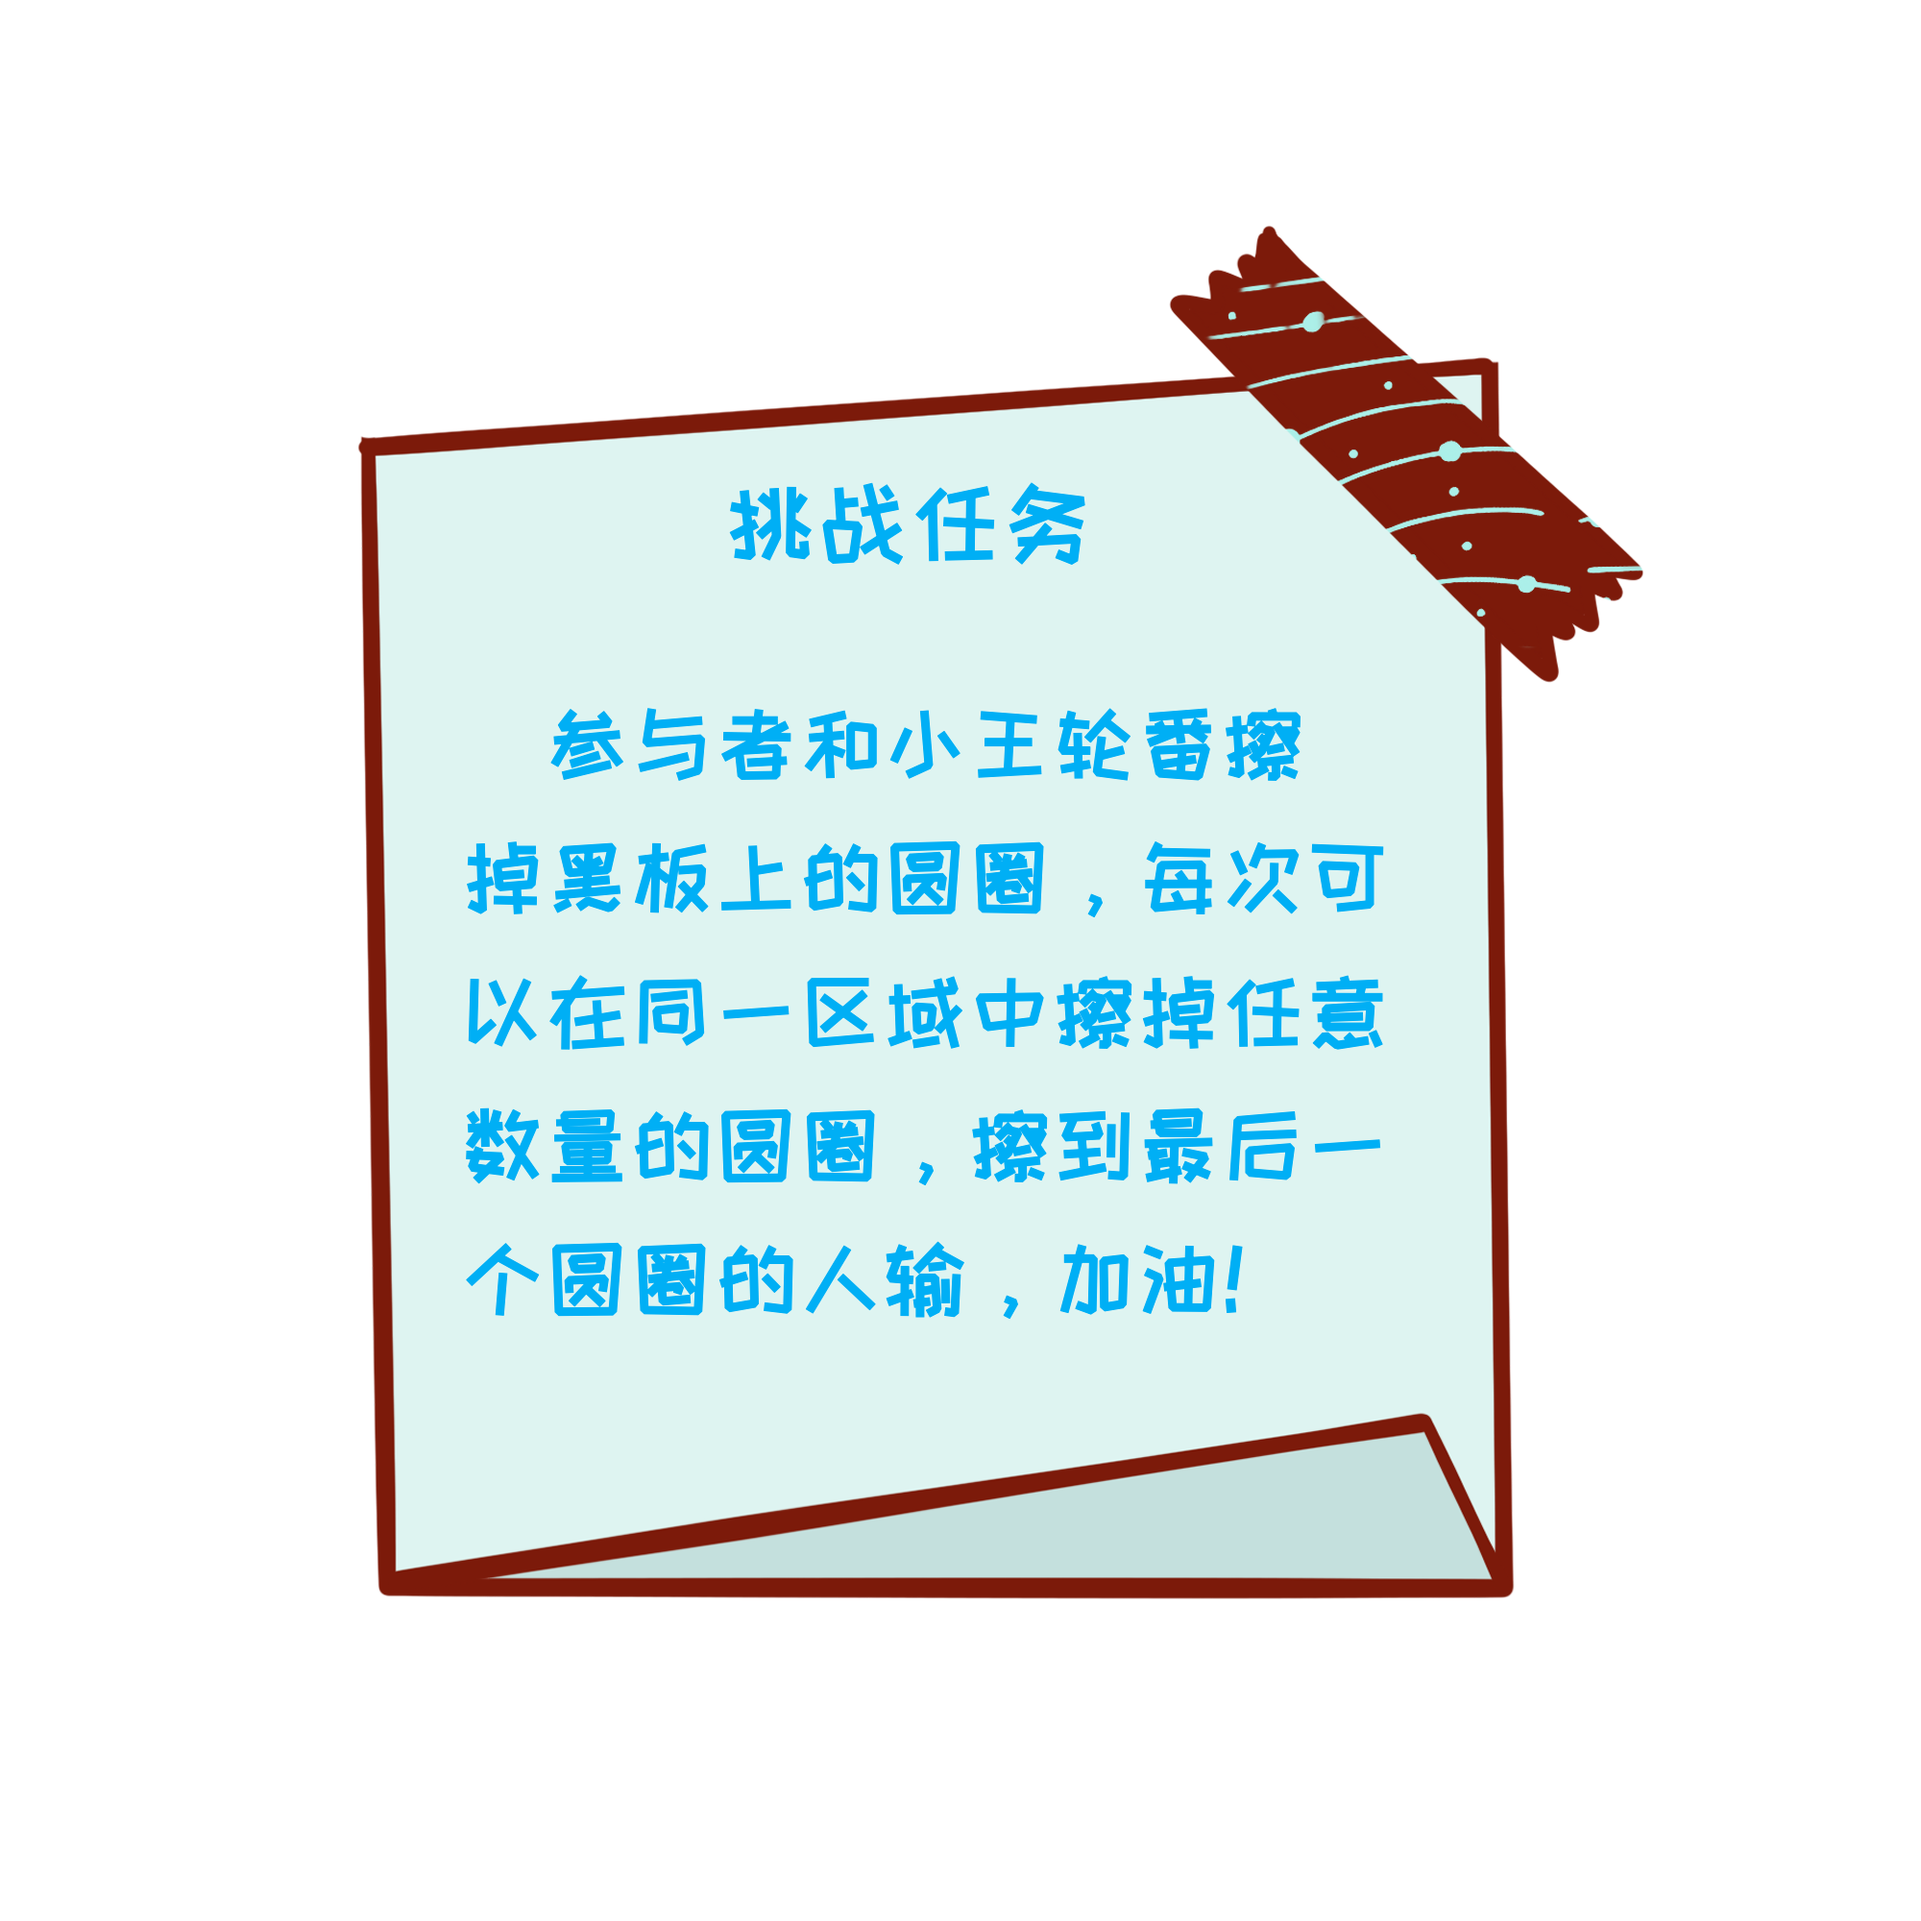
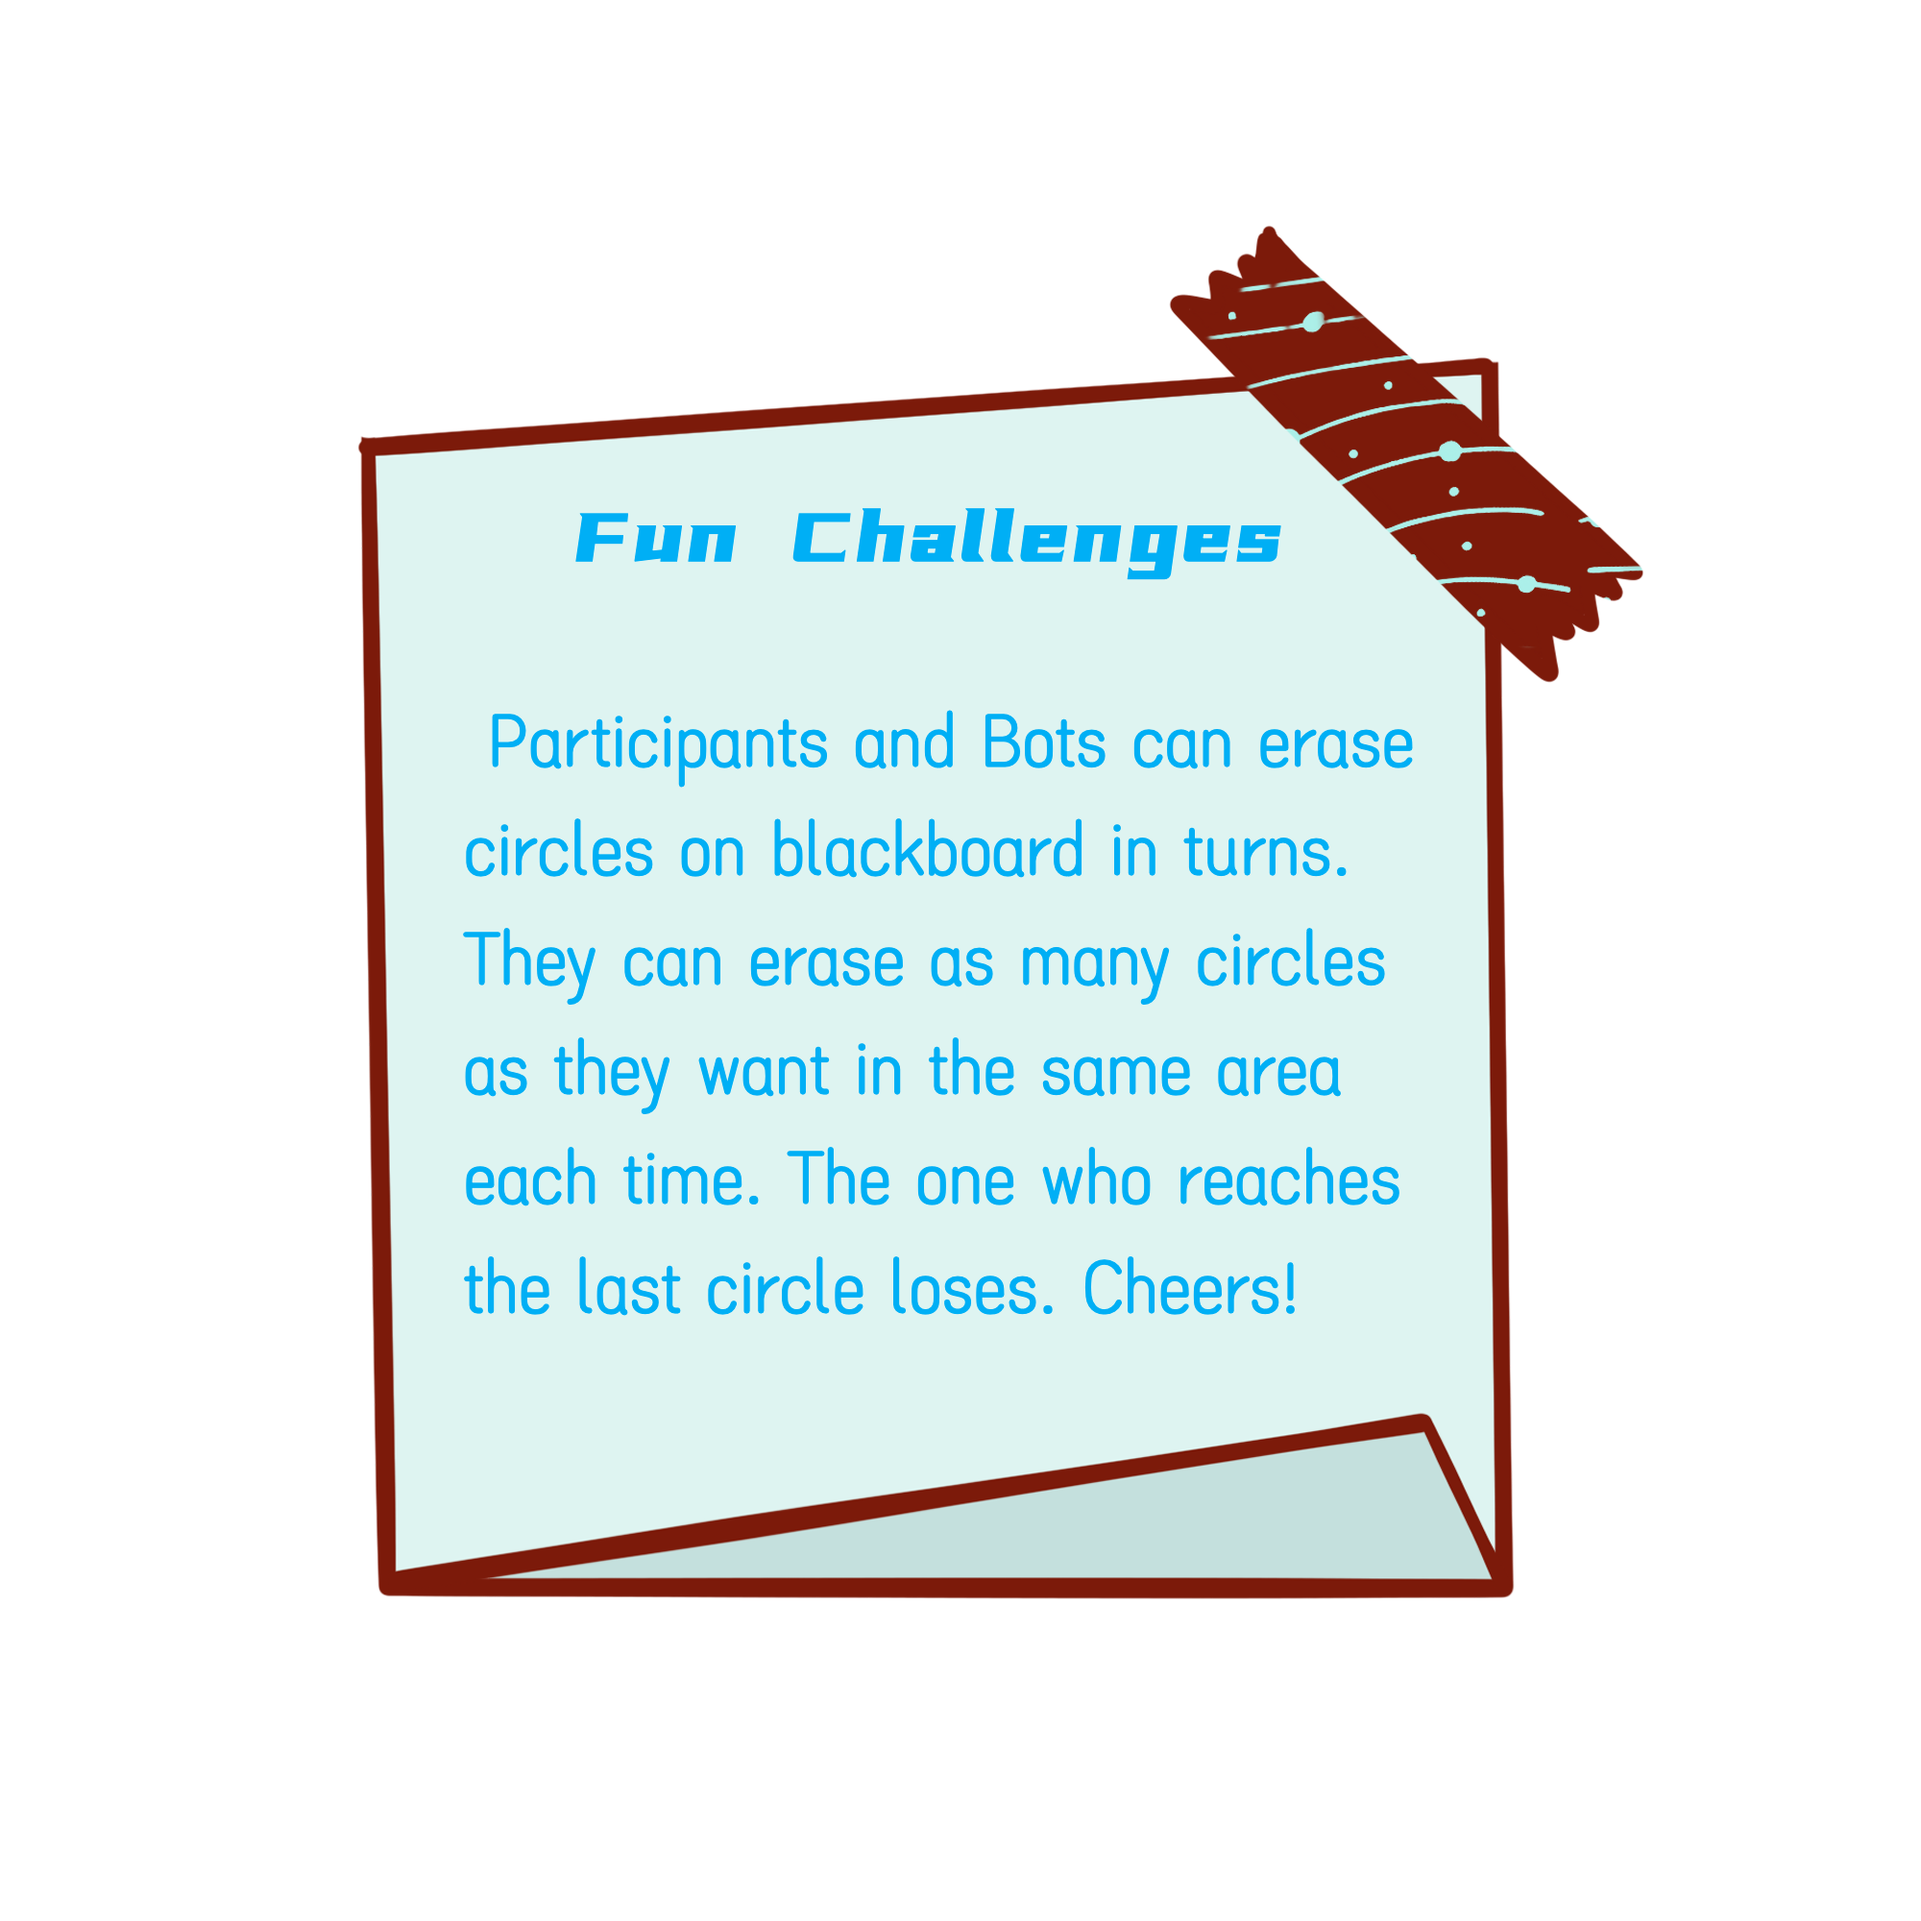
EN

Changed region(s): [[0.217, 0.434, 0.744, 0.682], [0.279, 0.248, 0.682, 0.31], [0.248, 0.372, 0.744, 0.403]]

diff --git a/game.js b/game.js
@@ -7,13 +7,12 @@
   let btn = document.getElementById('btn');
   let music=document.getElementById("myAudio");
   let FirstOrNot = false;
-  let color = 1;
+  let color = 0;
   
   let arrNum = [1, 5, 3, 7];
   let arr = [area1, area2, area3, area4];
   
-  let playerCount = 0;                                                            //玩家计数器（用来判断当前是谁在操作）
-  
+  let playerCount = 0;                                                            
   
   let draw = function(){
 	  for(let i=0; i<arr.length; i++)
@@ -26,19 +25,32 @@
 	  for(let i=0; i<arr.length; i++){
 	      for(let j=0; j<arrNum[i]; j++){
 	          let chess = document.createElement('img');
-			  if(color === 0)
+			  if(color % 5 === 0)
 			  {
-				chess.src = './chess.png';
+				chess.src = './chess1.png';
 			  }
-			  else
+			  else if(color % 5 === 1)
 			  {
-				  chess.src = './chess1.png';
+				  chess.src = './chess.png';
+			  }
+			  else if(color % 5 === 2)
+			  {
+			  	  chess.src = './bitcoin.png';
+			  }
+			  else if(color % 5 === 3)
+			  {
+			  	  chess.src = './eth.png';
+			  }
+			  else if(color % 5 === 4)
+			  {
+			  	  chess.src = './dogecoin.png';
 			  }
 	          chess.style.width = '38px';
 	          chess.style.height = '38px';
 	  	      arr[i].appendChild(chess);
 	      }
 	  }
+	  Arrow();
   }
   draw();
   
@@ -51,19 +63,19 @@
 	  }
   }
   
-  let isWin = function(n1, n2, n3, n4)                                            //判断输赢
+  let isWin = function(n1, n2, n3, n4)                                            
   {
 	  if(n1 === 0 && n2 === 0 && n3 === 0 && n4 === 0)
 	  {
 	  	if(playerCount % 2 === 0)
 		{
-			alert("小王赢了");
+			alert("GPT-0 win");
 			re();
 			return true;
 		}
 		else
 		{
-			alert("你赢了");
+			alert("You win!");
 			re();
 			return true;
 		}
@@ -104,7 +116,7 @@
 	}
 	else if((from.value === "1" && n1 < subNum)||(from.value === "2" && n2 < subNum)||(from.value === "3" && n3 < subNum)||(from.value === "4" && n4 < subNum))
 	{
-		alert("所选区域剩余棋子不足，请重新选择");
+		alert("There are not enough pieces left in the selected area. Please reselect!");
 		isclick = true;
 		return;
 	}
@@ -113,6 +125,7 @@
 		return;
 	}
 	playerCount++;
+	Arrow();
 	pick(area, subNum);
 	setTimeout(ai2, 3000);
 	setTimeout(function(){
@@ -132,25 +145,25 @@
 	  if(n1 !== 0)
 	  {
 		  arrNum[0] = n1 - 1;
-		  area = "一";
+		  area = "one";
 		  aaa = n1;
 	  }
 	  else if(n2 !== 0)
 	  {
 		  arrNum[1] = n2 - 1;
-		  area = "二";
+		  area = "two";
 		  aaa = n2;
 	  }
 	  else if(n3 !== 0)
 	  {
 		  arrNum[2] = n3 - 1;
-		  area = "三";
+		  area = "three";
 		  aaa = n3;
 	  }
 	  else if(n4 !== 0)
 	  {
 		  arrNum[3] = n4 - 1;
-		  area = "四";
+		  area = "four";
 		  aaa = n4;
 	  }
 	  document.getElementById("action").innerHTML = '小王从第'+area+'区域中拿了一个,棋子由'+aaa+'个变为'+(aaa - 1)+'个';
@@ -172,15 +185,15 @@
 	  let n4 = arrNum[3];
 	  
 	  let area = findWin(n1, n2, n3, n4)[0];
-	  let takeNum = findWin(n1, n2, n3, n4)[1];                //判断能否拿了直接赢
+	  let takeNum = findWin(n1, n2, n3, n4)[1];                
 	  
-	  if(takeNum === 0)                                        //判断能否拿了达成秘籍
+	  if(takeNum === 0)                                        
 	  {
 		  area = take(n1, n2, n3, n4)[0];
 		  takeNum = take(n1, n2, n3, n4)[1];
 	  }
 	  
-	  if(area === 0)                                            //没有合适的拿取对象，随便拿一个
+	  if(area === 0)                                           
 	  {
 		  if(findaabbbbcccccc(n1, n2, n3 ,n4))
 		  {
@@ -212,34 +225,35 @@
 	  if(area === 1)
 	  {
 		  arrNum[0] = n1 - takeNum;
-		  areaWord = "一";
+		  areaWord = "one";
 		  last = n1;
 	  }
 	  else if(area === 2)
 	  {
 		  arrNum[1] = n2 - takeNum;
-		  areaWord = "三";
+		  areaWord = "three";
 		  last = n2;
 	  }
 	  else if(area === 3)
 	  {
 		  arrNum[2] = n3 - takeNum;
-		  areaWord = "二";
+		  areaWord = "two";
 		  last = n3;
 	  }
 	  else if(area === 4)
 	  {
 		  arrNum[3] = n4 - takeNum;
-		  areaWord = "四";
+		  areaWord = "four";
 		  last = n4;
 	  }
 	  
-	  document.getElementById("action").innerHTML = '小王从第'+areaWord+'区域中拿了' + takeNum +'个,棋子由'+last+'个变为'+(last - takeNum)+'个';
+	  document.getElementById("action").innerHTML = 'GPT_0 earsed ' + takeNum + ' pieces from area ' + areaWord + ', \nthe circle changed from ' + last + ' to ' + (last - takeNum);
 	  if(isWin(arrNum[0], arrNum[1], arrNum[2], arrNum[3]) === true)
 	  {
 	  	return;
 	  }
 	  playerCount++;
+	  Arrow();
 	  pick(area, takeNum);
   }
 
@@ -348,17 +362,19 @@
 	  num.value = "1";
 	  playerCount = 0;
 	  draw();
-	  document.getElementById("action").innerHTML = '您先拿';
+	  document.getElementById("action").innerHTML = 'You first';
 	  if(FirstOrNot === true)
 	  {
 		  isclick = false;
 		  setTimeout(function(){isclick=true}, 3000);
-		  document.getElementById("action").innerHTML = '小王先拿';
+		  document.getElementById("action").innerHTML = 'GPT-0 first';
+		  document.getElementById("turn").innerHTML = 'Player :\nGPT_0:<-';
 		  setTimeout(function(){
 		  let area = 4;
 		  let takeNum = 1;
 		  arrNum[3] = 6;
-		  document.getElementById("action").innerHTML = '小王从第四区域中拿了' + takeNum +'个,棋子由7个变为6个';
+		  document.getElementById("action").innerHTML = 'GPT_0 earsed 1 pieces from area four, \nthe circle changed from 7 to 6';
+		  Arrow();
 		  pick(area, takeNum);
 		  }
 		  , 3000);	  
@@ -416,18 +432,22 @@
    {
 	   if(colorclick === true){
 		   colorclick = false;
-	   if(color === 0)
-	   {
-		   color = 1;
-	   }
-	   else
-	   {
-		   color = 0;
-	   }
+	   color++;
 	   setTimeout(function(){
 	         colorclick = true;
 	       }, 3000);
 	   re();
+	   }
+   }
+   
+   function Arrow(){	   
+	   if(playerCount % 2 === 0)
+	   {
+		   document.getElementById("turn").innerHTML = 'Player :<-\nGPT_0:';
+	   }
+	   else
+	   {
+		   document.getElementById("turn").innerHTML = 'Player :\nGPT_0:<-';
 	   }
    }
    

diff --git a/index.html b/index.html
@@ -3,14 +3,16 @@
 <head>
   <title>Boring Club</title>
   <link rel="stylesheet" type="text/css" href="game.css">
-  <link rel="icon" href="chess.png" >
+  <link rel="icon" href="boringclub.png" >
 </head>
 <body>
    <img id="blackboard" src="blackboarda.png" />
+   <img id="boringclub" src="boringclub.png" />
    <img id="chalkline" src="chalkline.png"/>
    <img id="chalkline2" src="chalkline2.png"/>
-   <img id="rules" src="rules3.png"/>
-<!--   <a href="http://www.lvyestudy.com" target="_blank"><img id="dc" src="dc.png" alt="discord"/></a> -->
+   <img id="rules" src="rules.png"/>
+  <a href="https://discord.gg/ZAE9UqDa" target="_blank"><img id="dc" src="dc.png" alt="discord"/></a>
+  <div id = "turn">Player :<-<br/>GPT_0:</div>
   <div class="container">
       <div class="row1">
           <div id="area1"></div>
@@ -23,21 +25,21 @@
   </div>
   <div class="controller">
      <select id="from">
-      <option value="1">区域1</option>  
-      <option value="3">区域2</option>
-	  <option value="2">区域3</option>
-	  <option value="4">区域4</option>
+      <option value="1">area1</option>  
+      <option value="3">area2</option>
+	  <option value="2">area3</option>
+	  <option value="4">area4</option>
     </select>
      <input type="number" class="num-input" value="1" id="num" min=1 max=7>
-    <button id="btn">确定</button>
+    <button id="btn">confirm</button>
 	<br/><br/>
-	<button id="restart">重新开始</button>
+	<button id="restart">restart</button>
 	<audio id="myAudio" loop="loop" src="music.mp3"></audio>
-	<button id="order" onclick="changeOrder()">先后手</button>
+	<button id="order" onclick="changeOrder()">change order</button>
 	<button id="playBtn" onclick="playAudio()">Music</button>
-	<button id="color" onclick="changeColor()">圆颜色</button>
+	<button id="color" onclick="changeColor()">change color</button>
   </div>
-  <div id="action">您先拿</div>
+  <div id="action">You first</div>
   <script src="game.js" charset="utf-8"></script>
 </body>
 </html>

diff --git a/game.css b/game.css
@@ -19,11 +19,24 @@ body {
 
 .controller{
 	position: fixed;
-    left:47.5%;
+    left:45%;
     top:60%;
     margin-left:-100px;
     margin-top:0px;
 	line-height: 35px;
+}
+
+#turn{
+	position: fixed;
+	left:50%;
+	top:35%;
+	width: 300px;
+	height: 300px;
+	margin-left:-265px;
+	margin-top:-195px;
+	text-align: left;
+	color: #d2e1d0;
+	white-space: pre-line;
 }
 
 #action{
@@ -34,6 +47,8 @@ body {
 	margin-left:-200px;
 	margin-top:0px;
 	color: #c88300;
+	white-space: pre-line;
+	font-family: "Times New Roman", Times, serif;
 }
 
 .row1, .row2 {
@@ -147,6 +162,16 @@ body {
 	top: 3%;
 	margin-left:0px;
 	margin-top:0px;
+}
+
+#boringclub{
+	width: 30px;
+	height:30px;
+	position: fixed;
+	left: 90%;
+	top: 2%;
+	margin-left:5px;
+	margin-top:5px;
 }
 
 
